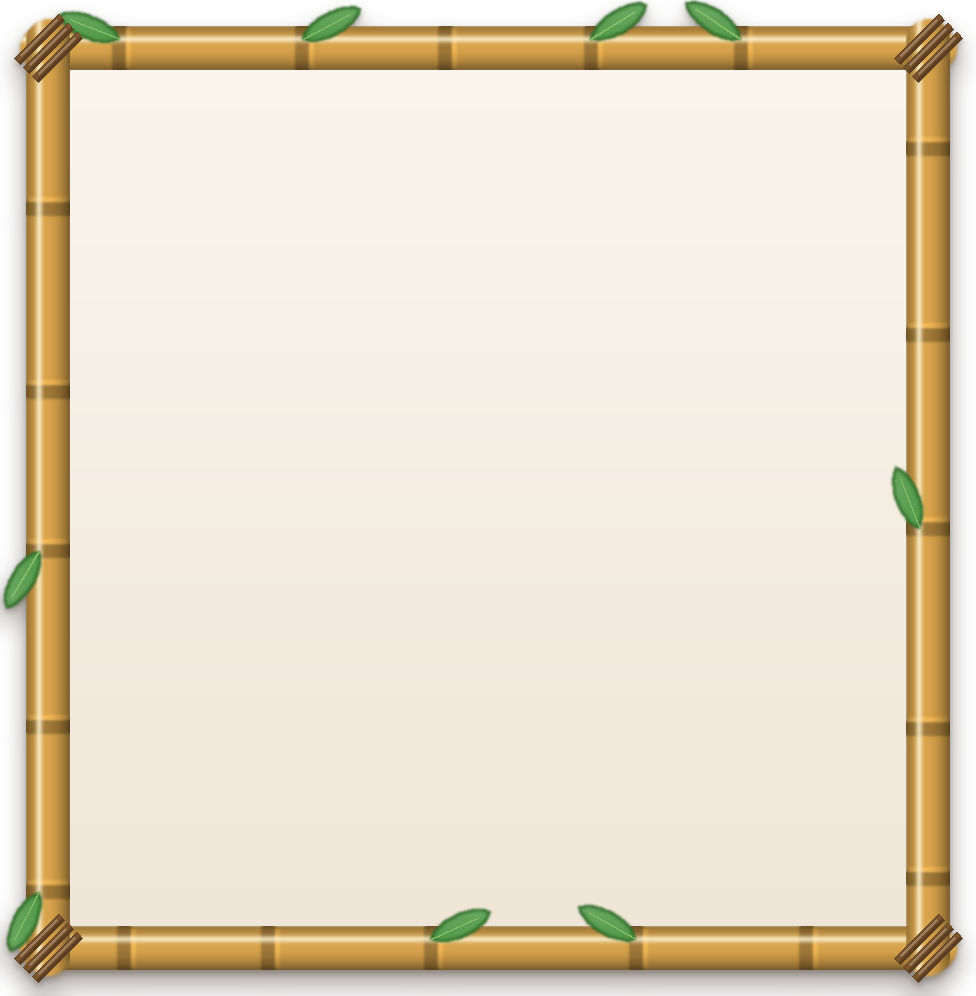
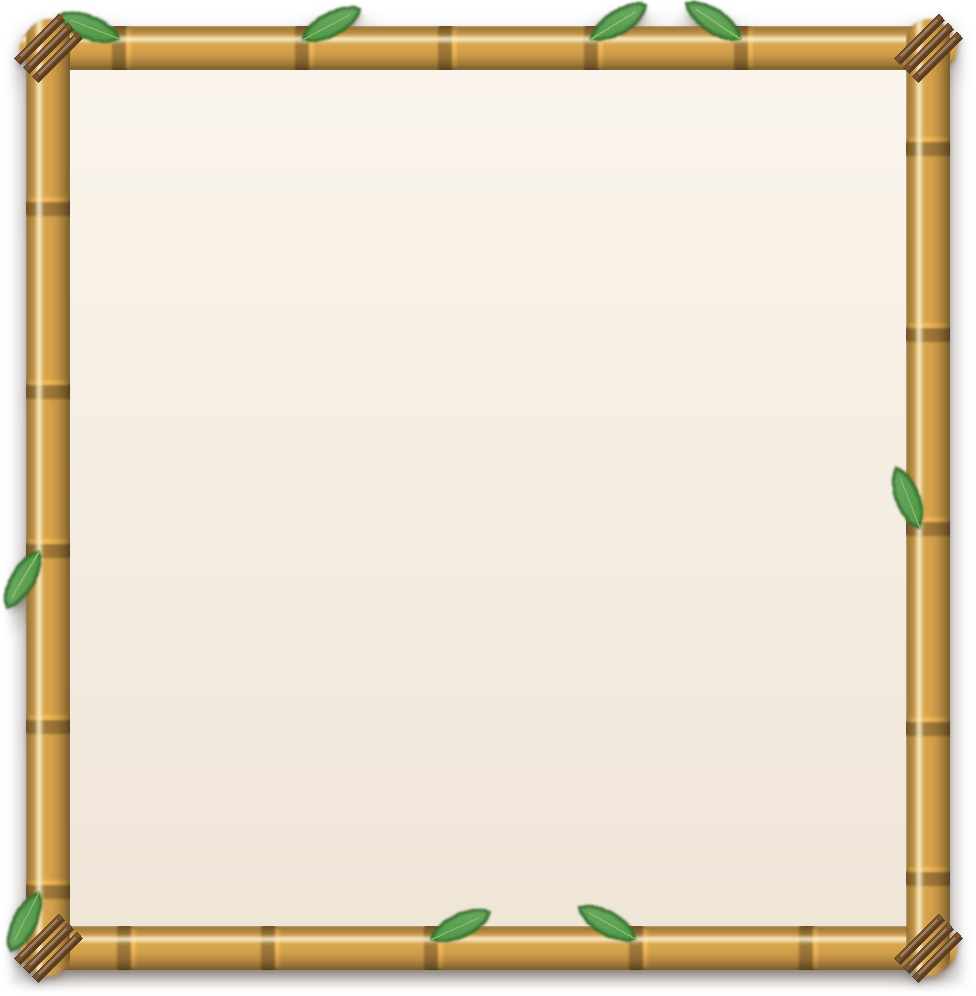
Fade the bamboo frames' shadow out at the picture's edge
Claude-Session: https://claude.ai/code/session_01R8JHqmvJq6hiKtCJ8pJGXt

Changed region(s): [[0.0, 0.9649, 0.9836, 1.0], [0.0, 0.9337, 0.0307, 0.9649], [0.0, 0.5914, 0.0307, 0.6225]]

diff --git a/Tools/menu/MenuArt.cs b/Tools/menu/MenuArt.cs
@@ -20,6 +20,7 @@ using Pts = System.Collections.Generic.List<(double X, double Y)>;
 const int Bold = 5;         // Accuratist has one thin weight: a stroke in pixels fattens the title
 const int S = 2;            // pixels per design pixel
 const int Pad = 24;         // design pixels round every picture for its shadow
+const int Fade = 10;        // the frames' shadow fades out over this many of them
 const int Seed = 7;
 // Lip heights in design pixels; MainMenuView.axaml and MenuTheme.axaml shift the text up by
 // half of them (and down again on a press).
@@ -120,7 +121,9 @@ static PilImage Flat((int W, int H) size, int[] colour, int alpha = 255) =>
     new("RGBA", size.W, size.H, (byte)colour[0], (byte)colour[1], (byte)colour[2], (byte)alpha);
 
 // A wide soft shadow plus a tight contact shadow under the picture.
-static PilImage Shadow(PilImage img, PilImage mask, int dy = 6, double radius = 6, double strength = 95)
+// fade: the shadow runs out to nothing over the picture's outer Fade pixels (the bamboo frame
+// reaches past Pad, so its shadow would end in a hard line over a busy background).
+static PilImage Shadow(PilImage img, PilImage mask, int dy = 6, double radius = 6, double strength = 95, bool fade = false)
 {
     var output = new PilImage("RGBA", mask.Width, mask.Height, 0, 0, 0, 0);
     foreach (var (off, blur, k) in new[] { (dy, radius, strength), (Py.FloorDiv(dy, 3), radius / 4, strength * 0.6) })
@@ -132,6 +135,15 @@ static PilImage Shadow(PilImage img, PilImage mask, int dy = 6, double radius = 
         lay.PutAlpha(sh);
         output.AlphaComposite(lay);
     }
+    if (fade)
+        for (int y = 0; y < output.Height; y++)
+            for (int x = 0; x < output.Width; x++)
+            {
+                double edge = Math.Min(Math.Min(x, output.Width - 1 - x), Math.Min(y, output.Height - 1 - y)) / (double)(Fade * S);
+                double t = Math.Clamp(edge, 0, 1);
+                ref byte a = ref output.Data[(y * output.Width + x) * 4 + 3];
+                a = (byte)Math.Round(a * t * t * (3 - 2 * t));
+            }
     output.AlphaComposite(img);
     return output;
 }
@@ -284,7 +296,7 @@ PilImage Framed(int w, int h, PyRandom random)
     foreach (var (cx, cy) in new[] { (p, p), (p + w * S, p), (p, p + h * S), (p + w * S, p + h * S) })
         Twine(poles, cx, cy);
     pic.AlphaComposite(poles);
-    return Shadow(pic, PilImage.Lighter(mask, poles.GetChannel(3)), 7, 6, 110);
+    return Shadow(pic, PilImage.Lighter(mask, poles.GetChannel(3)), 7, 6, 110, fade: true);
 }
 
 // Light and dark masks of a rounded bevel width pixels wide on the mask's edge, lit from the
